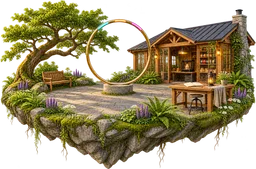
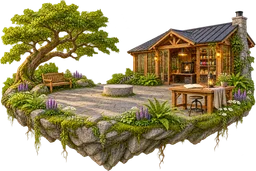
Heute-Insel ohne gemalten Ring: Tagesportal zeichnet den Messingring selbst auf den Sockel
Neues Inselbild des Nutzers (Eiche, Werkstatt, leerer Steinsockel). Der Ring ist jetzt Teil der App (Messingtube mit Lichtkante, Fußschatten), dadurch keine Überlagerung mehr; ASSET_VERSION 20261107c.

Claude-Session: https://claude.ai/code/session_01Bea5Y1uKo4kG3DT62iBBFM

diff --git a/src/ui/About.tsx b/src/ui/About.tsx
@@ -72,7 +72,7 @@ export function EinstellungenSheet() {
   );
 }
 
-const OK = ['Alle 17 Inselbilder vom Nutzer erzeugt (Welten, Projektwelten, Rahmen für eigene Fotos), einheitlicher heller Stil', 'Acht Projektwelten (Garten, Küche & Haushalt, Fahrzeug, Büro, Hobby, Technik, Deko, Modellbau) als Inselbilder vom Nutzer, werden im Projektformular nach Bereich und Art vorgeschlagen', 'Jahreszeiten: automatisch nach Datum (oder fest in den Einstellungen) färben die Inseln, legen eine Stimmung über die Landschaft, lassen Blütenblätter, Pollen und Glühwürmchen, Laub oder Schneestaub treiben; Startwelt zeigt Jahreszeit und Tage bis zur nächsten, Wetterwelt gibt Werkstatt-Tipps je Jahreszeit', 'Tagesportal auf der Heute-Insel: der gemalte Ring bleibt innen durchsichtig und zeigt am Rand den Sonnenweg von Aufgang bis Untergang, in der Mitte die Uhr und den nächsten Lichtwechsel', 'Mobiler Begleiter: unter 900 px Breite eine eigene einfache Oberfläche mit Reitern Start, Heute, Projekte, Material, Mehr (gleiche Daten, gleiche Formulare); Tablet quer und Desktop zeigen die räumliche Werkstatt', 'Startwelt (Variante B): Uhr, Datum, Begrüßung, Wetter, Spruch, Landschaft nach Tageszeit, Inseln als Orientierung, Scrollen = Erkunden', 'Räumliche Navigation: Welten als große Inseln, aktive Welt vorn, Parallaxe, Wolken unter den Inseln, Tag/Dämmerung/Nacht nach echtem Sonnenstand', 'Echtes Wetter von Open-Meteo: aktuell, 24 h mit Temperaturkurve, 7 Tage, Tageslicht, Luftdruck, UV, Wetter-Hinweise (Regelbasiert), beste 8 Stunden nach PV-Regel des Plans', 'Projekt-Flow in fünf Schritten: Idee, Projektart (11 Arten + eigene), Einsatzbereiche (12 + eigene), Projektwelt (3 Vorschläge, eigenes Bild mit Rahmen), Details; Meilenstein-Vorlagen je Projektart; Lichtmoment im Karussell', 'Projekte-Welt: Karussell, Status an der Insel (Bereit/Blockiert/Geplant), Fortschritt, Chips, Aktuelles im Projekt, Ähnliche Projekte, Filter mit Zählern', 'Innenwelt rund um die Insel: Meilensteine, Versionen (Vergleich), Material, Drucke, Dateien, Aufgaben (mit Checklisten-Vorlagen), Werkzeuge, Bilder/3D/Notizen, Historie; Vollansichten als Seitenpanel', 'Drucke planen, Warteschlange mit Bereit/Blockiert und Wartegrund, Ergebnis Erfolg/Nacharbeit/Fehldruck (Nacharbeit → Aufgabe), Eingang mit Projektvorschlägen (hoch/mittel/niedrig), neues Projekt aus Druck, Ignorieren', 'AMS-Slots mit Füllstand, Statistiken 30 Tage, Energie-Messwerte (Messung ≠ Schätzung), Kalibrierungs-Vorlagen am Gerät', 'Material: Rollen einzeln (vorhanden/reserviert/verfügbar, Verbrauch genau einmal gebucht), Trocknung planen mit Geräteprofilen, Herstellerfarben, Produktkatalog (16) und Materialvergleich, Top-Materialien, Einkaufsliste', 'Archiv: Galerie, Zeitreise, beliebte Tags, Wiederentdecken, Filter (Art, Bereich, Material, Drucker, Jahr), Vorlagen (manuell oder beim Abschluss), Erfahrungen', 'Hinweise-Glocke mit Konflikten (Wartung, Fehlmengen, Fehldruck ohne Folge, leere Rollen, Eingang, fehlendes Werkzeug, Final-Version → Abschluss), Halo an blockierten Inseln', 'Papierkorb mit Wiederherstellen, Export/Import als JSON, Demodaten zurücksetzen, Speicheranzeige, Einstellungen (Name, Thema, Bewegung, Parallaxe, Hinweise, Standarddrucker, Materialien, PV, Strompreis)', 'Suche mit Strg+K über Projekte, Versionen, Aufgaben, Drucke, Rollen, Geräte, Historie; zuletzt genutzt gewichtet'];
+const OK = ['Alle 17 Inselbilder vom Nutzer erzeugt (Welten, Projektwelten, Rahmen für eigene Fotos), einheitlicher heller Stil', 'Acht Projektwelten (Garten, Küche & Haushalt, Fahrzeug, Büro, Hobby, Technik, Deko, Modellbau) als Inselbilder vom Nutzer, werden im Projektformular nach Bereich und Art vorgeschlagen', 'Jahreszeiten: automatisch nach Datum (oder fest in den Einstellungen) färben die Inseln, legen eine Stimmung über die Landschaft, lassen Blütenblätter, Pollen und Glühwürmchen, Laub oder Schneestaub treiben; Startwelt zeigt Jahreszeit und Tage bis zur nächsten, Wetterwelt gibt Werkstatt-Tipps je Jahreszeit', 'Tagesportal auf der Heute-Insel: ein gezeichneter Messingring auf dem Steinsockel, innen durchsichtig, und zeigt am Rand den Sonnenweg von Aufgang bis Untergang, in der Mitte die Uhr und den nächsten Lichtwechsel', 'Mobiler Begleiter: unter 900 px Breite eine eigene einfache Oberfläche mit Reitern Start, Heute, Projekte, Material, Mehr (gleiche Daten, gleiche Formulare); Tablet quer und Desktop zeigen die räumliche Werkstatt', 'Startwelt (Variante B): Uhr, Datum, Begrüßung, Wetter, Spruch, Landschaft nach Tageszeit, Inseln als Orientierung, Scrollen = Erkunden', 'Räumliche Navigation: Welten als große Inseln, aktive Welt vorn, Parallaxe, Wolken unter den Inseln, Tag/Dämmerung/Nacht nach echtem Sonnenstand', 'Echtes Wetter von Open-Meteo: aktuell, 24 h mit Temperaturkurve, 7 Tage, Tageslicht, Luftdruck, UV, Wetter-Hinweise (Regelbasiert), beste 8 Stunden nach PV-Regel des Plans', 'Projekt-Flow in fünf Schritten: Idee, Projektart (11 Arten + eigene), Einsatzbereiche (12 + eigene), Projektwelt (3 Vorschläge, eigenes Bild mit Rahmen), Details; Meilenstein-Vorlagen je Projektart; Lichtmoment im Karussell', 'Projekte-Welt: Karussell, Status an der Insel (Bereit/Blockiert/Geplant), Fortschritt, Chips, Aktuelles im Projekt, Ähnliche Projekte, Filter mit Zählern', 'Innenwelt rund um die Insel: Meilensteine, Versionen (Vergleich), Material, Drucke, Dateien, Aufgaben (mit Checklisten-Vorlagen), Werkzeuge, Bilder/3D/Notizen, Historie; Vollansichten als Seitenpanel', 'Drucke planen, Warteschlange mit Bereit/Blockiert und Wartegrund, Ergebnis Erfolg/Nacharbeit/Fehldruck (Nacharbeit → Aufgabe), Eingang mit Projektvorschlägen (hoch/mittel/niedrig), neues Projekt aus Druck, Ignorieren', 'AMS-Slots mit Füllstand, Statistiken 30 Tage, Energie-Messwerte (Messung ≠ Schätzung), Kalibrierungs-Vorlagen am Gerät', 'Material: Rollen einzeln (vorhanden/reserviert/verfügbar, Verbrauch genau einmal gebucht), Trocknung planen mit Geräteprofilen, Herstellerfarben, Produktkatalog (16) und Materialvergleich, Top-Materialien, Einkaufsliste', 'Archiv: Galerie, Zeitreise, beliebte Tags, Wiederentdecken, Filter (Art, Bereich, Material, Drucker, Jahr), Vorlagen (manuell oder beim Abschluss), Erfahrungen', 'Hinweise-Glocke mit Konflikten (Wartung, Fehlmengen, Fehldruck ohne Folge, leere Rollen, Eingang, fehlendes Werkzeug, Final-Version → Abschluss), Halo an blockierten Inseln', 'Papierkorb mit Wiederherstellen, Export/Import als JSON, Demodaten zurücksetzen, Speicheranzeige, Einstellungen (Name, Thema, Bewegung, Parallaxe, Hinweise, Standarddrucker, Materialien, PV, Strompreis)', 'Suche mit Strg+K über Projekte, Versionen, Aufgaben, Drucke, Rollen, Geräte, Historie; zuletzt genutzt gewichtet'];
 const DEMO = ['Druckerstatus und Fortschritt (zeitbasiert simuliert, keine Geräteanbindung)', 'Solarstrom und Stromschätzung (Formel kWp × Einstrahlung / 1000 × 0,82), Wetter-Hinweise sind Regeln, keine amtlichen Warnungen', 'Kalendertermine (Beispiele), Dateien und 3D-Modelle (Platzhalter; eigene Fotos werden gespeichert)', 'Projektvorschläge im Eingang (einfacher Namensabgleich)', 'Landschaft wechselt nach echtem Sonnenstand (Morgendämmerung, Sonnenaufgang, Morgen, Mittag, Nachmittag, goldene Stunde, Sonnenuntergang, blaue Stunde, Mondnacht) und bei Nebel, Regen oder bedecktem Himmel nach dem echten Wetter'];
 const LATER = ['Anmeldung, persönliche Freigabe, Rollen (Eigentümer/Bearbeiter/Leser), Synchronisation, Offline-Abgleich', 'Entwicklungszweige (V3A/V3B), Merge mit Änderungsbericht, räumliche Zeitreise, Wiederherstellen alter Zustände', 'Lebendige Vorlagen und ähnliche Projekte mit selektiver Übernahme und Konfliktansicht', 'STL/3MF-Betrachter und automatische Renders, Slicer-Import, Druckeranbindung, Kameras, Sensoren, reale PV-Daten, dynamische Stromtarife', 'Natürliche Sprache in der Suche, Werkstattkalender (Woche/Monat), externe Kalender, Push, installierbare App', 'Gerätevorlagen (X2D, A1, AMS 2 Pro, AMS HT), Düsenverwaltung, Diagnose mit Symptomen, freie Ortswahl, Etiketten/QR-Erkennung, Demomodus'];
 

diff --git a/src/ui/Tagesportal.tsx b/src/ui/Tagesportal.tsx
@@ -19,14 +19,14 @@ function arc(from: number, to: number, r: number) {
  * the real landscape and weather show through. On the rim: one luminous arc, the sun's path from sunrise (left) to sunset (right);
  * the passed part glows, a sun or moon bead marks now. Centre: the clock, and (not in compact mode) when the sun sets or rises next.
  */
-export function Tagesportal({ compact = false, turn = 33, lean = 7 }: { compact?: boolean; turn?: number; lean?: number }) {
+export function Tagesportal({ compact = false, turn = 28, lean = 0 }: { compact?: boolean; turn?: number; lean?: number }) {
   const now = useNow(1000);
   const weather = useStore(useShallow((s) => s.weather));
   const today = todayDaily(weather?.data, now);
   const sr = today ? hourOf(today.sunrise) : 7; const ss = today ? hourOf(today.sunset) : 17;
   const h = now.getHours() + now.getMinutes() / 60 + now.getSeconds() / 3600;
   const isDay = h >= sr && h <= ss;
-  const R = 90; const [bx, by] = pt(h, R);
+  const R = 83; const [bx, by] = pt(h, R);
   // what the centre line says: the next change of light
   const tomorrow = weather?.data.daily?.[1];
   const at = (iso: string | undefined, fallbackHour: number) => fmtTime(iso ? new Date(iso) : new Date(new Date(now).setHours(fallbackHour, 0, 0, 0)));
@@ -40,17 +40,23 @@ export function Tagesportal({ compact = false, turn = 33, lean = 7 }: { compact?
           <defs>
             <linearGradient id="portalDay" gradientUnits="userSpaceOnUse" x1={f(pt(sr, R)[0])} y1={f(pt(sr, R)[1])} x2={f(pt(ss, R)[0])} y2={f(pt(ss, R)[1])}><stop offset="0" stopColor="#ffb08a" /><stop offset=".5" stopColor="#fff1c2" /><stop offset="1" stopColor="#ffa052" /></linearGradient>
             <radialGradient id="portalText" cx="50%" cy="50%" r="50%"><stop offset="0" stopColor="rgba(8,14,30,.55)" /><stop offset=".7" stopColor="rgba(8,14,30,.25)" /><stop offset="1" stopColor="rgba(8,14,30,0)" /></radialGradient>
+            <linearGradient id="portalBrass" x1="0" y1="0" x2="1" y2="1"><stop offset="0" stopColor="#f6dc9a" /><stop offset=".35" stopColor="#c99a4a" /><stop offset=".65" stopColor="#8a5d22" /><stop offset="1" stopColor="#e4bf6e" /></linearGradient>
+            <linearGradient id="portalBrassHi" x1="0" y1="0" x2="1" y2="1"><stop offset="0" stopColor="rgba(255,250,225,.95)" /><stop offset=".5" stopColor="rgba(255,240,200,.15)" /><stop offset="1" stopColor="rgba(255,255,255,0)" /></linearGradient>
             <filter id="portalSoft" x="-50%" y="-50%" width="200%" height="200%"><feGaussianBlur stdDeviation="2.2" /></filter>
             <filter id="portalGlow" x="-40%" y="-40%" width="180%" height="180%"><feGaussianBlur stdDeviation="1.8" result="b" /><feMerge><feMergeNode in="b" /><feMergeNode in="SourceGraphic" /></feMerge></filter>
           </defs>
 
+          {/* the ring itself: a brass tube standing on the pedestal of the island (the island image has no ring of its own) */}
+          <circle cx="100" cy="100" r="93" fill="none" stroke="rgba(0,0,0,.35)" strokeWidth="9" filter="url(#portalSoft)" />
+          <circle cx="100" cy="100" r="93" fill="none" stroke="url(#portalBrass)" strokeWidth="7" />
+          <circle cx="100" cy="100" r="95.2" fill="none" stroke="url(#portalBrassHi)" strokeWidth="1.6" />
+          <circle cx="100" cy="100" r="90.6" fill="none" stroke="rgba(60,35,10,.55)" strokeWidth=".9" />
           {/* inside stays transparent: the real landscape and weather show through; only a soft dark centre keeps the clock readable */}
           <circle cx="100" cy="100" r="46" fill="url(#portalText)" />
-          <circle cx="100" cy="100" r="86" fill="none" stroke="rgba(255,255,255,.28)" strokeWidth=".7" />
-
+          
           {/* the rim: the sun's path. Night part faint, daylight as a warm arc, the passed part glowing */}
-          <circle cx="100" cy="100" r={R} fill="none" stroke="rgba(10,16,34,.45)" strokeWidth="5.5" />
-          <circle cx="100" cy="100" r={R} fill="none" stroke="rgba(140,170,255,.4)" strokeWidth="2.2" />
+          <circle cx="100" cy="100" r={R} fill="none" stroke="rgba(10,16,34,.4)" strokeWidth="5" />
+          <circle cx="100" cy="100" r={R} fill="none" stroke="rgba(140,170,255,.42)" strokeWidth="2" />
           <path d={arc(sr, ss, R)} fill="none" stroke="url(#portalDay)" strokeWidth="4.2" strokeLinecap="round" opacity=".5" />
           {h > sr ? <path d={arc(sr, Math.min(h, ss), R)} fill="none" stroke="#ffe9b0" strokeWidth="7" strokeLinecap="round" opacity=".35" filter="url(#portalSoft)" /> : null}
           {h > sr ? <path d={arc(sr, Math.min(h, ss), R)} fill="none" stroke="url(#portalDay)" strokeWidth="4.2" strokeLinecap="round" filter="url(#portalGlow)" /> : null}
@@ -64,6 +70,7 @@ export function Tagesportal({ compact = false, turn = 33, lean = 7 }: { compact?
           </g>
         </svg>
       </div>
+      <div className="portal__foot" />
       <div className="portal__centre"><b>{fmtTime(now)}</b>{compact ? null : <><span>{line[0]}</span><span className="portal__sub">{line[1]}</span></>}</div>
     </div>
   );

diff --git a/src/styles/global.css b/src/styles/global.css
@@ -396,8 +396,9 @@ p { margin: 0; }
 /* ---------- Heute info ring: floating glass ring over the island platform ---------- */
 /* standing ring: laid into the painted gold ring of the Heute island (measured: centre 43.5 % / 30.7 %, height 37.4 % of the island) */
 
-/* ---- Tagesportal: the painted standing ring of the Heute island (measured: centre 43.5 % / 30.7 %, height 37.4 % of the island) ---- */
-.portal { position: absolute; left: 32.2%; top: 11.6%; width: 25.2%; aspect-ratio: 1; pointer-events: none; animation: fade var(--t-mid) var(--ease) both; container-type: inline-size; }
+/* ---- Tagesportal: a brass ring drawn on the pedestal of the Heute island (pedestal top measured at 45.9 % / 51.3 % of the sprite) ---- */
+.portal { position: absolute; left: 32.55%; top: 11.3%; width: 26.7%; aspect-ratio: 1; pointer-events: none; animation: fade var(--t-mid) var(--ease) both; container-type: inline-size; }
+.portal__foot { position: absolute; left: 28%; right: 28%; top: 96%; height: 7%; border-radius: 50%; background: radial-gradient(50% 50% at 50% 50%, rgba(20,12,0,.5), transparent 70%); filter: blur(2px); }
 .portal__tilt { position: absolute; inset: 0; transform-origin: 50% 50%; filter: drop-shadow(0 6px 10px rgba(0,0,0,.35)); }
 .portal__centre { position: absolute; left: 50%; top: 50%; transform: translate(-50%, -54%); text-align: center; color: #fff; text-shadow: 0 2px 10px rgba(0,0,0,.75), 0 0 2px rgba(0,0,0,.6); white-space: nowrap; }
 .portal__centre b { display: block; font-size: clamp(12px, 17cqw, 40px); font-weight: 700; letter-spacing: -.02em; line-height: 1; }

diff --git a/src/scene/Island.tsx b/src/scene/Island.tsx
@@ -6,7 +6,7 @@ export const ISLAND_META: Record<LibraryIsland, { w: number; h: number; disc?: {
   werkstatt: { w: 1098, h: 1227 }, elektronik: { w: 1098, h: 1226 }, ideen: { w: 1094, h: 1224 },
   rahmen: { w: 1094, h: 1190 }, staffelei: { w: 1203, h: 1123 },
   // the six main islands (wide format, from the user's image package of 7 Nov 2026)
-  heute: { w: 1521, h: 1004 }, projekte: { w: 1361, h: 841 }, druck: { w: 1483, h: 943 }, material: { w: 1506, h: 1003 }, wetter: { w: 1401, h: 939 }, archiv: { w: 1481, h: 881 },
+  heute: { w: 1523, h: 1015 }, projekte: { w: 1361, h: 841 }, druck: { w: 1483, h: 943 }, material: { w: 1506, h: 1003 }, wetter: { w: 1401, h: 939 }, archiv: { w: 1481, h: 881 },
   drucker: { w: 1081, h: 1188 },
   'projekt-garten': { w: 1081, h: 1167 }, 'projekt-haushalt': { w: 1080, h: 1168 }, 'projekt-fahrzeug': { w: 1080, h: 1209 }, 'projekt-buero': { w: 1080, h: 1186 },
   'projekt-hobby': { w: 1079, h: 1204 }, 'projekt-technik': { w: 1086, h: 1208 }, 'projekt-deko': { w: 1081, h: 1196 }, 'projekt-modell': { w: 1080, h: 1195 },
@@ -20,7 +20,7 @@ export const FRAME_BOX: Partial<Record<LibraryIsland, CSSProperties>> = {
   staffelei: { left: '28%', right: '28%', top: '21.5%', bottom: '46.5%' },
 };
 /** Bump when island sprites change: the CDN and browsers cache /img/* for a year (immutable), so the URL must change. */
-export const ASSET_VERSION = '20261107b';
+export const ASSET_VERSION = '20261107c';
 export const islandSrc = (id: LibraryIsland, w: 1254 | 640 | 256) => `/img/insel-${id}-${w}.webp?v=${ASSET_VERSION}`;
 
 export interface IslandProps {

diff --git a/docs/Brainstorm-Info.md b/docs/Brainstorm-Info.md
@@ -98,7 +98,7 @@ Demodaten: fünf aktive Projekte (Sensorhalter Garten, Bewässerungsclip, Werkze
 
 **Landschaften (1672 × 941, Bergsee mit gleichbleibendem Bildaufbau):** je Jahreszeit vier Bilder (früher Morgen, Mittag, Sonnenuntergang, Nacht) für Frühling, Sommer, Herbst und Winter, dazu ein regennasser Bergsee für bedeckt, Nebel und Regen. Die zwölf Licht-Looks (Dämmerung bis Mondnacht) steuern weiter Sonnenstand, Himmelsfarbe und Wolken und werden auf die vier Tagesbilder der aktuellen Jahreszeit abgebildet (`src/scene/looks.ts`, `LOOK_PHASE`). Die früheren zwölf Tal-Landschaften liegen in `reference/alte-assets/`.
 
-**Hauptinseln (1536 × 1024, freigestellt geliefert):** Heute (Garten mit stehendem Leuchtring, Bank und Hütte; darin das Tagesportal), Projekte (Werkstatthütte mit Baum), 3D-Druck (Druckwerkstatt mit AMS), Material (Spulenregal), Wetter (Kuppel, Wettermast, Wasserfall), Archiv (Bibliothek mit Vitrinen).
+**Hauptinseln (1536 × 1024, freigestellt geliefert):** Heute (Garten mit Bank, Hütte und leerem Steinsockel; darauf zeichnet die App das Tagesportal als Messingring), Projekte (Werkstatthütte mit Baum), 3D-Druck (Druckwerkstatt mit AMS), Material (Spulenregal), Wetter (Kuppel, Wettermast, Wasserfall), Archiv (Bibliothek mit Vitrinen).
 
 **Bibliotheksinseln für Projekte (1254 × 1254):** Werkstatt, Elektronik, Ideen, Drucker, acht Projektwelten (Garten, Haushalt, Fahrzeug, Büro, Hobby, Technik, Deko, Modellbau) sowie 16 weitere Motive: Haus & Bauen, Sammlung, Druckhütte, Pergola-Garten, Holzwerkstatt, Computerstudio, Elektroniklabor, Spulenlager, Solarpavillon, Metallwerkstatt, Atelier, Observatorium, Planungsgarten, Garten mit Ring, Werkstatt-Pavillon; für eigene Fotos zwei Rahmen-Inseln (Holztafel, Staffelei).
 

diff --git a/README.md b/README.md
@@ -18,7 +18,7 @@ Die räumliche Inselwelt ist für Desktop und Tablet quer gebaut. Unter 900 px B
 
 ## Tagesportal auf der Heute-Insel
 
-Die Heute-Insel hat einen gemalten, aufrecht stehenden Ring. `src/ui/Tagesportal.tsx` macht daraus ein Fenster auf den Tag: innen bleibt er durchsichtig (die echte Landschaft scheint durch); am Rand der Sonnenweg von Aufgang (links) bis Untergang (rechts) mit leuchtendem vergangenem Teil und einer Sonne oder einem Mond als Jetzt-Marke; in der Mitte die Uhr und der nächste Lichtwechsel. Position und Neigung stehen in `global.css` (`.portal`) und in den Props `turn` und `lean`. Auf der Startseite läuft es als `compact` nur mit Uhr.
+Die Heute-Insel hat einen leeren Steinsockel; `src/ui/Tagesportal.tsx` zeichnet darauf einen stehenden Messingring als Fenster auf den Tag: innen bleibt er durchsichtig (die echte Landschaft scheint durch); am Rand der Sonnenweg von Aufgang (links) bis Untergang (rechts) mit leuchtendem vergangenem Teil und einer Sonne oder einem Mond als Jetzt-Marke; in der Mitte die Uhr und der nächste Lichtwechsel. Position und Neigung stehen in `global.css` (`.portal`) und in den Props `turn` und `lean`. Auf der Startseite läuft es als `compact` nur mit Uhr.
 
 ## Domains
 
